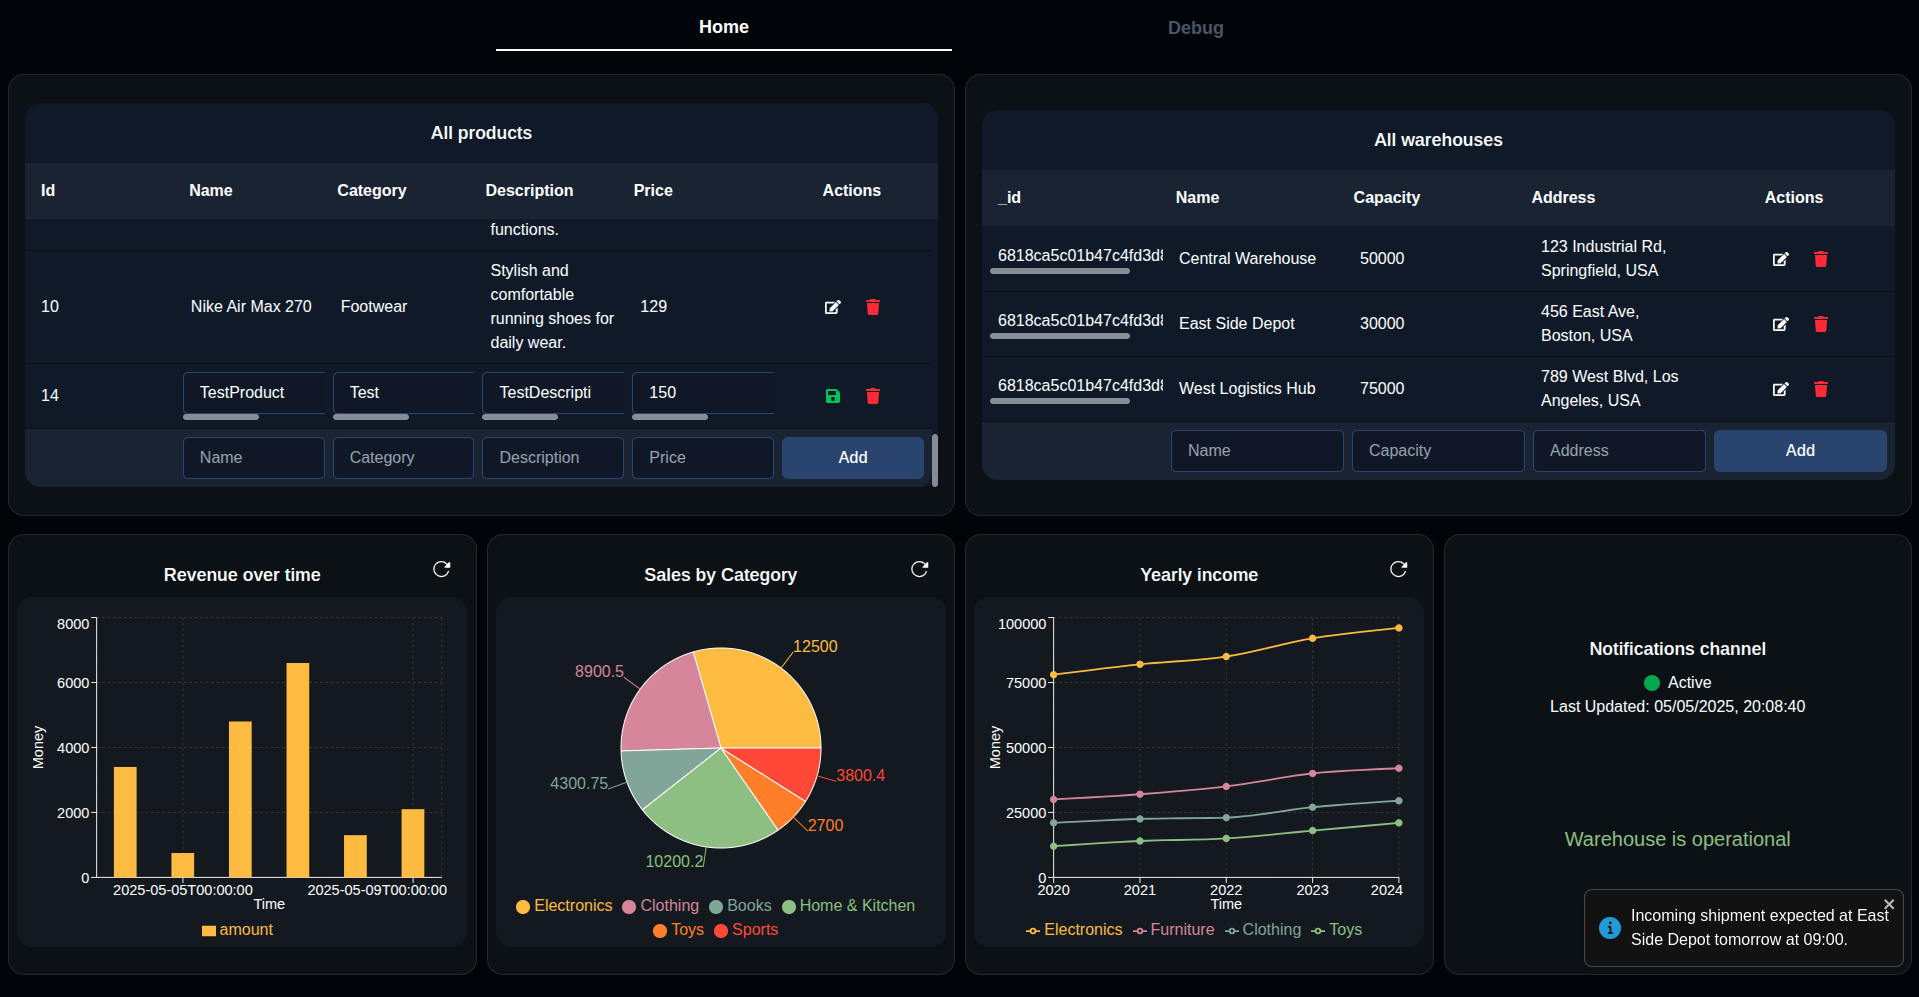
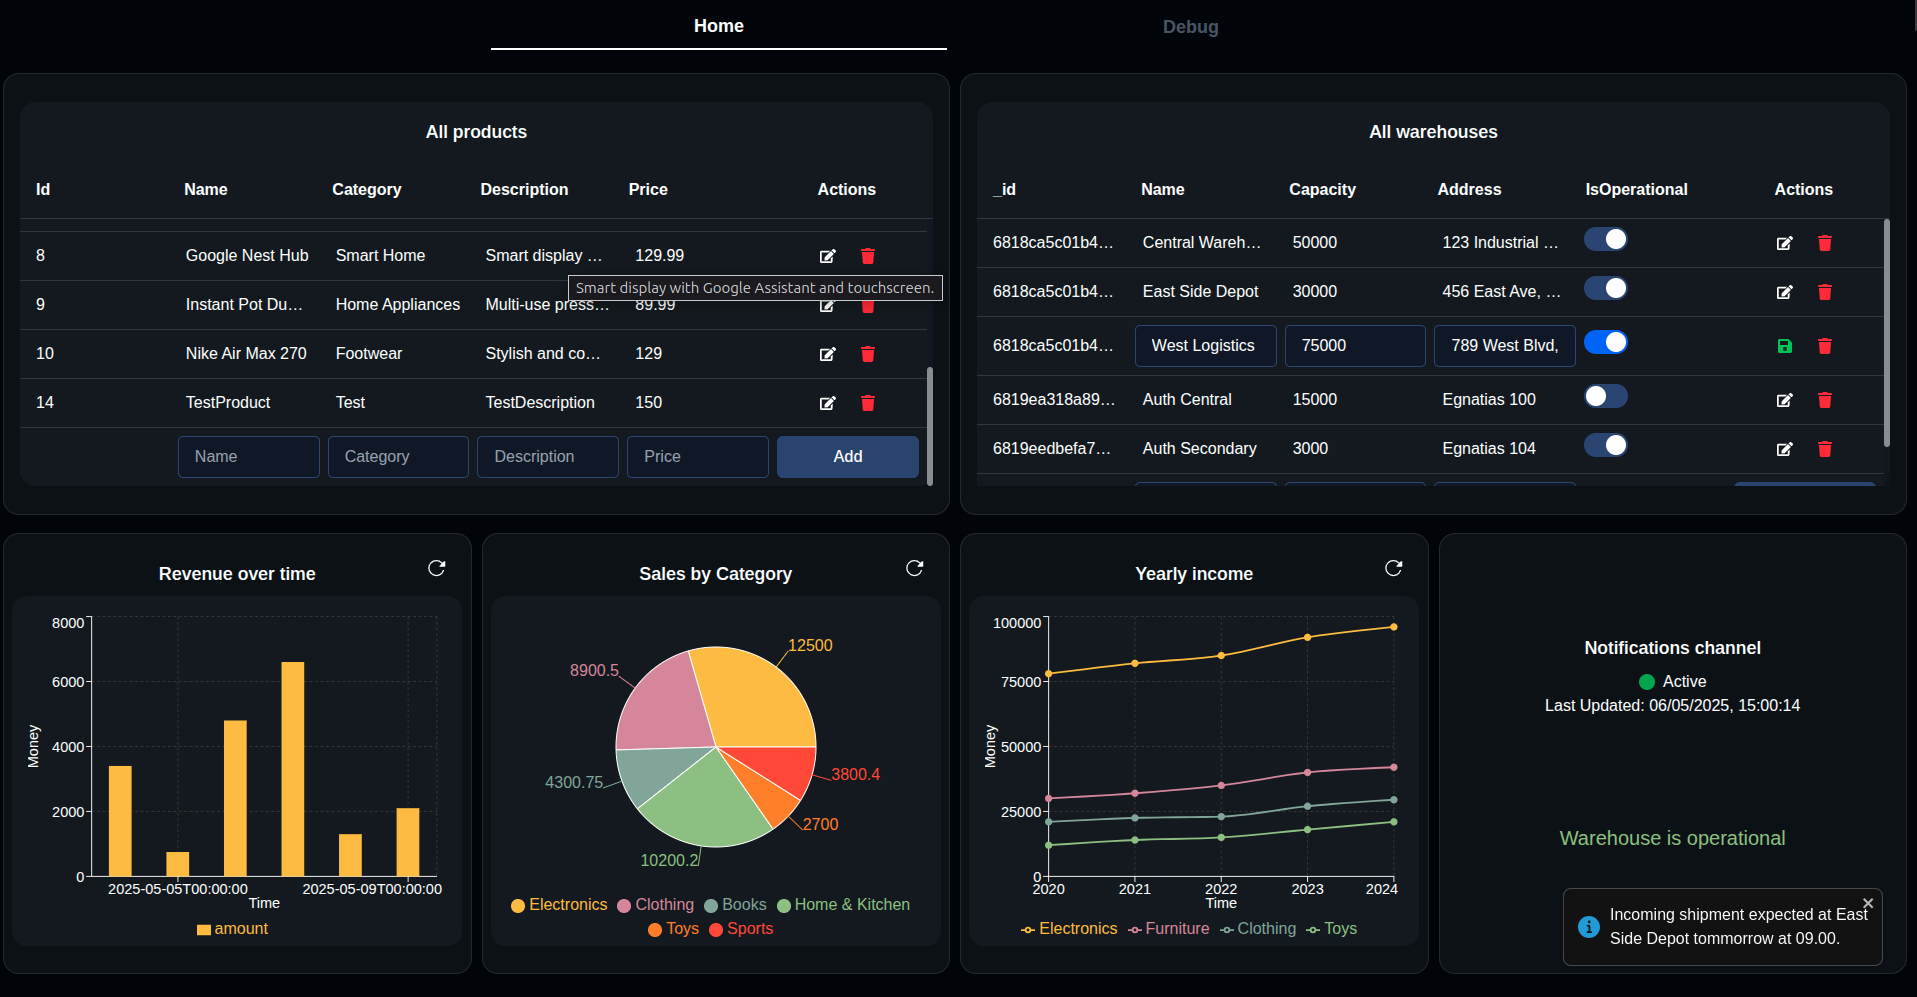
Visual updated in crud table, supports also bool values

diff --git a/web_dsl/base/frontend_base/src/components/CrudTable.jsx b/web_dsl/base/frontend_base/src/components/CrudTable.jsx
@@ -9,6 +9,7 @@ import {
     isObjectOfLists
 } from "../utils/transformations";
 import { modifyDB } from "../api/dbModify";
+import CustomCheckbox from "./CustomCheckbox";
 
 const CrudTable = ({
     attributes = [],
@@ -34,11 +35,12 @@ const CrudTable = ({
         const rec = {};
         columns.forEach((col) => {
             if (col !== primaryKey) {
-                rec[col] = "";
+                // Check if the column is a boolean field, set to false if so
+                rec[col] = typeof data[0]?.[col] === "boolean" ? false : "";
             }
         });
         return rec;
-    }, [columns, primaryKey]);
+    }, [columns, primaryKey, data]);
 
     useEffect(() => {
         setNewRecord(emptyRecord);
@@ -196,10 +198,10 @@ const CrudTable = ({
     const capitalize = (s) => s[0].toUpperCase() + s.slice(1);
 
     return (
-        <div className="flex flex-col text-white justify-start items-center w-full h-fit max-h-96 bg-[#101929] rounded-2xl">
+        <div className="flex flex-col text-white justify-start items-center w-full h-fit max-h-96 bg-[#13191E] rounded-2xl">
             {/* Header */}
             <h1 className="p-4 text-lg font-semibold">{description}</h1>
-            <div className="w-full sticky top-0 z-10 border-b border-[#111929] bg-[#1A2233] p-4">
+            <div className="w-full sticky top-0 z-10  bg-[#13191E]  border-b border-[#313641] p-4">
                 <div
                     className="grid gap-2 font-bold"
                     style={{
@@ -222,40 +224,84 @@ const CrudTable = ({
                 {data.map((row) => (
                     <div
                         key={row[primaryKey]}
-                        className="grid gap-2 p-2 bg-[#101929] border-b border-[#0D1117] items-center"
+                        className="grid w-full gap-2 p-2 border-b border-[#313641] items-center"
                         style={{
                             gridTemplateColumns: `repeat(${
                                 columns.length + 1
-                            }, minmax(100px,1fr))`
+                            }, minmax(0, 1fr))`
                         }}
                     >
-                        {columns.map((col) => (
-                            <div key={col} className="overflow-auto">
-                                {col === primaryKey ||
-                                editingPkValue !== row[primaryKey] ? (
-                                    <p className="text-left px-2">
-                                        {row[col] ?? "-"}
-                                    </p>
-                                ) : (
-                                    <input
-                                        className="bg-transparent text-white focus:outline-none border-b border-transparent focus:border-white px-2"
-                                        value={row[col]}
-                                        onChange={(e) =>
-                                            handleChange(
-                                                row[primaryKey],
-                                                col,
-                                                e.target.value
-                                            )
-                                        }
-                                    />
-                                )}
-                            </div>
-                        ))}
+                        {columns.map((col) => {
+                            const value = row[col];
+
+                            return (
+                                <div
+                                    key={col}
+                                    className="overflow-hidden text-ellipsis whitespace-nowrap cursor-pointer"
+                                    title={String(value ?? "-")}
+                                >
+                                    {col === primaryKey ||
+                                    editingPkValue !== row[primaryKey] ? (
+                                        typeof value === "boolean" ? (
+                                            <CustomCheckbox
+                                                checked={value}
+                                                disabled={true}
+                                            />
+                                        ) : (
+                                            // <input
+                                            //     type="checkbox"
+                                            //     checked={value}
+                                            //     disabled
+                                            //     className="mx-2 cursor-default"
+                                            // />
+                                            <p className="text-left px-2 text-ellipsis whitespace-nowrap overflow-hidden">
+                                                {value ?? "-"}
+                                            </p>
+                                        )
+                                    ) : typeof value === "boolean" ? (
+                                        <CustomCheckbox
+                                            checked={value}
+                                            onChange={(e) =>
+                                                handleChange(
+                                                    row[primaryKey],
+                                                    col,
+                                                    e.target.checked
+                                                )
+                                            }
+                                        />
+                                    ) : (
+                                        // <input
+                                        //     type="checkbox"
+                                        //     checked={value}
+                                        //     onChange={(e) =>
+                                        //         handleChange(
+                                        //             row[primaryKey],
+                                        //             col,
+                                        //             e.target.checked
+                                        //         )
+                                        //     }
+                                        //     className="mx-2"
+                                        // />
+                                        <input
+                                            className="bg-transparent w-full text-white focus:outline-none border-b border-transparent focus:border-white px-2"
+                                            value={value}
+                                            onChange={(e) =>
+                                                handleChange(
+                                                    row[primaryKey],
+                                                    col,
+                                                    e.target.value
+                                                )
+                                            }
+                                        />
+                                    )}
+                                </div>
+                            );
+                        })}
                         <div className="flex justify-center space-x-2">
                             {editingPkValue === row[primaryKey] ? (
                                 <button
                                     onClick={() => handleSave(row[primaryKey])}
-                                    className="p-2 rounded-full hover:bg-[#03C64C]/20"
+                                    className="p-2 rounded-full hover:bg-[#03C64C]/20 cursor-pointer"
                                 >
                                     <FaSave className="text-[#03C64C]" />
                                 </button>
@@ -264,14 +310,14 @@ const CrudTable = ({
                                     onClick={() =>
                                         setEditingPkValue(row[primaryKey])
                                     }
-                                    className="p-2 rounded-full hover:bg-[#2D4272]/20"
+                                    className="p-2 rounded-full hover:bg-[#2D4272]/20 cursor-pointer"
                                 >
                                     <FaEdit className="text-white" />
                                 </button>
                             )}
                             <button
                                 onClick={() => handleDelete(row[primaryKey])}
-                                className="p-2 rounded-full hover:bg-[#FA2C37]/20"
+                                className="p-2 rounded-full hover:bg-[#FA2C37]/20 cursor-pointer"
                             >
                                 <FaTrash className="text-[#FA2C37]" />
                             </button>
@@ -281,31 +327,53 @@ const CrudTable = ({
 
                 {/* New Record Row */}
                 <div
-                    className="grid gap-2 p-2 bg-[#1A2233] rounded-b-2xl"
+                    className="grid gap-2 p-2 bg-[#13191E] rounded-b-2xl"
                     style={{
                         gridTemplateColumns: `repeat(${
                             columns.length + 1
                         }, minmax(100px,1fr))`
                     }}
                 >
-                    {columns.map((col) =>
-                        col === primaryKey ? (
-                            <div key={col} />
+                    {columns.map((col) => {
+                        const value = newRecord[col];
+
+                        if (col === primaryKey) return <div key={col} />;
+
+                        return typeof value === "boolean" ? (
+                            <div
+                                key={col}
+                                className="flex justify-center items-center"
+                            >
+                                {/* <input
+                                    type="checkbox"
+                                    checked={value}
+                                    onChange={(e) =>
+                                        handleNewChange(col, e.target.checked)
+                                    }
+                                    className="mx-2"
+                                /> */}
+                                <CustomCheckbox
+                                    checked={value}
+                                    onChange={(e) =>
+                                        handleNewChange(col, e.target.checked)
+                                    }
+                                />
+                            </div>
                         ) : (
                             <input
                                 key={col}
                                 className="p-1 bg-transparent text-white focus:outline-none border-b border-transparent focus:border-white px-2 placeholder-gray-400"
                                 placeholder={capitalize(col)}
-                                value={newRecord[col]}
+                                value={value}
                                 onChange={(e) =>
                                     handleNewChange(col, e.target.value)
                                 }
                             />
-                        )
-                    )}
+                        );
+                    })}
                     <button
                         onClick={handleAdd}
-                        className="bg-[#2D4272] px-3 py-1 rounded-md font-medium hover:bg-[#253A66]"
+                        className="bg-[#2D4272] px-3 py-1 rounded-md font-medium hover:bg-[#253A66] cursor-pointer"
                     >
                         Add
                     </button>

diff --git a/web_dsl/base/frontend_base/src/components/CustomCheckbox.jsx b/web_dsl/base/frontend_base/src/components/CustomCheckbox.jsx
@@ -1,0 +1,17 @@
+const CustomCheckbox = ({ checked, disabled, onChange }) => {
+    return (
+        <label className="relative inline-flex items-center cursor-pointer">
+            <input
+                type="checkbox"
+                checked={checked}
+                onChange={onChange}
+                className="sr-only peer"
+                disabled={disabled}
+            />
+            <div className="w-11 h-6 bg-gray-300 peer-focus:outline-none peer-disabled:bg-[#2D4373] peer-focus:ring-2 peer-focus:ring-blue-500 dark:peer-focus:ring-blue-800 rounded-full peer dark:bg-gray-600 peer-checked:bg-blue-600 transition-all"></div>
+            <div className="absolute left-0.5 top-0.5 bg-white w-5 h-5 rounded-full transition-all peer-checked:translate-x-full"></div>
+        </label>
+    );
+};
+
+export default CustomCheckbox;
